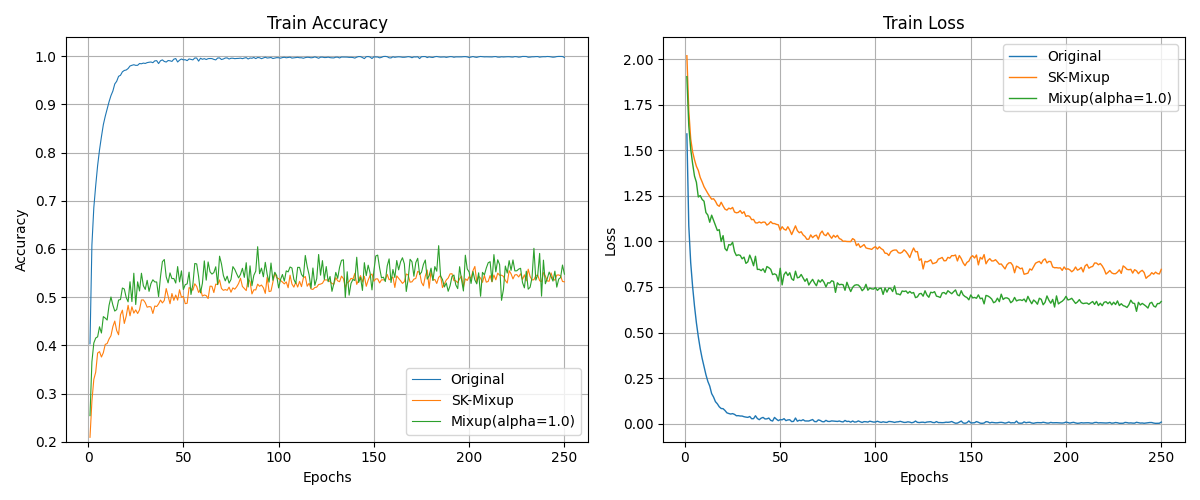
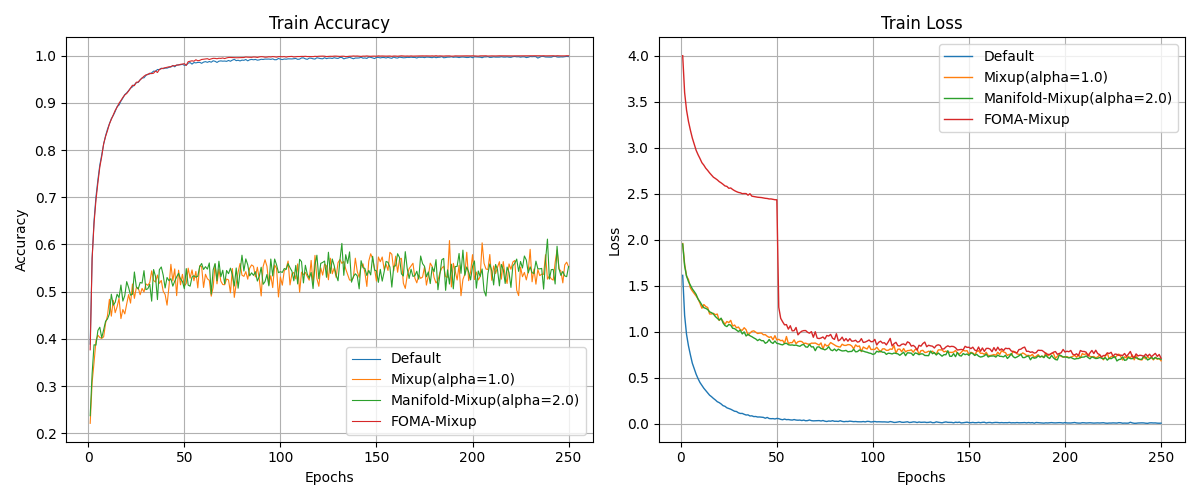
a

diff --git a/test.py b/test.py
@@ -29,34 +29,14 @@ from torchvision.datasets import STL10, CIFAR10, CIFAR100
 from torch.utils.data import DataLoader, random_split, Subset
 from src.methods.foma import foma
 
-class CIFAR100C(Dataset):
-    def __init__(self, corruption_type, severity=1, root='./data/CIFAR-100-C', transform=None):
-        self.data = np.load(f"{root}/{corruption_type}.npy")
-        self.labels = np.load(f"{root}/labels.npy")
-        assert 1 <= severity <= 5
-        self.data = self.data[(severity - 1) * 10000 : severity * 10000]
-        self.labels = self.labels[(severity - 1) * 10000 : severity * 10000]
-        self.transform = transform
-
-    def __len__(self):
-        return len(self.data)
-
-    def __getitem__(self, idx):
-        img = self.data[idx]
-        label = self.labels[idx]
-        img = img.astype(np.uint8)
-        if self.transform:
-            img = self.transform(img)
-        return img, label
-
 augmentations = [
-    # "Default",
-    # "Mixup",
+    "Default",
+    "Mixup",
     # "Manifold-Mixup",
     # "Local-FOMA",
-    "FOMA-Mixup2",
+    # "FOMA-Mixup2",
     # "RegMixup",
-    # "FOMA-scaleup"
+    "FOMA-scaleup"
 ]
 
 corruption_types = [
@@ -65,12 +45,12 @@ corruption_types = [
     'snow', 'frost', 'fog', 'brightness',
     'contrast', 'elastic_transform', 'pixelate', 'jpeg_compression'
 ]
-
+severity = 5
 def main():
     for i in range(1):
         parser = argparse.ArgumentParser()
-        parser.add_argument("--epochs",     type=int, default=400)
-        parser.add_argument("--data_type",  type=str, default="cifar100",  choices=["stl10", "cifar100", "cifar10"])
+        parser.add_argument("--epochs",     type=int, default=250)
+        parser.add_argument("--data_type",  type=str, default="cifar10",  choices=["stl10", "cifar100", "cifar10"])
         parser.add_argument("--model_type", type=str, default="wide_resnet_28_10", choices=["resnet18", "resnet101", "wide_resnet_28_10"])
         args = parser.parse_args() 
 
@@ -79,25 +59,6 @@ def main():
         model_type = args.model_type
         device     = torch.device('cuda' if torch.cuda.is_available() else 'cpu')
 
-        # Number of Classes & Batch Size
-        if data_type == "stl10":
-            num_classes = 10
-            batch_size  = 64
-        elif data_type == "cifar100":
-            num_classes = 100
-            batch_size  = 128
-        elif data_type == "cifar10":
-            num_classes = 10
-            batch_size  = 128
-        
-        default_transform = transforms.Compose([
-            transforms.RandomHorizontalFlip(),
-            transforms.Pad(4),
-            transforms.RandomCrop(32),
-            transforms.ToTensor(),
-            transforms.Normalize(mean=[0.485, 0.456, 0.406], std=[0.229, 0.224, 0.225]),
-        ])
-
         transform = transforms.Compose([
             transforms.ToTensor(), 
             transforms.Normalize(mean=[0.485, 0.456, 0.406], std=[0.229, 0.224, 0.225]),
@@ -105,15 +66,19 @@ def main():
                 
         # Loading Dataset
         if data_type == "stl10":
+            num_classes = 10
+            batch_size  = 64
             test_dataset = STL10(root="./data", split="train", download=True, transform=transform)
         elif data_type == "cifar100":
-            test_dataset = CIFAR100(root="./data", train=False, transform=transform, download=True)
+            num_classes = 100
+            batch_size  = 128
+            test_dataset   = CIFAR100(root="./data", train=False, transform=transform, download=True)
         elif data_type == "cifar10":
-            test_dataset = CIFAR10(root="./data", train=False, transform=transform, download=True)
+            num_classes = 10
+            batch_size  = 128
+            test_dataset   = CIFAR10(root="./data", train=False, transform=transform, download=True)
 
         test_loader  = DataLoader(dataset=test_dataset,  batch_size=batch_size, shuffle=False)
-
-        severity = 5
         
         for augment in augmentations:
             total_acc = 0
@@ -133,12 +98,14 @@ def main():
             model_save_path = f"./logs/{model_type}/{augment}/{data_type}_{epochs}_{i}.pth"
             model.load_state_dict(torch.load(model_save_path, weights_only=True))
             # test_loss, test_acc = test(model, test_loader, criterion, device, augment, aug_ok=False)
-            # print(f"[CIFAR-100]   Test Loss: {test_loss:.3f}, Test Accuracy: {test_acc:.3f}")
+            # print(f"Test Loss: {test_loss:.3f}, Test Accuracy: {test_acc:.3f}")
 
             for corruption in corruption_types:
-                test_dataset_C = CIFAR100C(corruption_type=corruption, severity=severity, transform=transform)
-                test_loader_C = torch.utils.data.DataLoader(test_dataset_C, batch_size=512, shuffle=False)
-
+                if data_type == "cifar100":
+                    test_dataset_C = CIFAR100C(corruption_type=corruption, severity=severity, transform=transform)
+                elif data_type == "cifar10":
+                    test_dataset_C = CIFAR10C(corruption_type=corruption, severity=severity, transform=transform)
+                test_loader_C  = torch.utils.data.DataLoader(test_dataset_C, batch_size=512, shuffle=False)
                 test_loss_C, test_acc_C = test(model, test_loader_C, criterion, device, augment, aug_ok=False)
                 print(f"  [{corruption}] Loss: {test_loss_C:.3f}, Accuracy: {test_acc_C:.2f}%")
                 total_acc += test_acc_C
@@ -147,7 +114,48 @@ def main():
             avg_acc = total_acc / len(corruption_types)
             avg_loss = total_loss / len(corruption_types)
 
-            print(f"\n[CIFAR-100-C Average] Loss: {avg_loss:.4f}, Accuracy: {avg_acc:.4f}%")
+            print(f"\nLoss: {avg_loss:.4f}, Accuracy: {avg_acc:.4f}%")
+
+
+class CIFAR100C(Dataset):
+    def __init__(self, corruption_type, severity=1, root='./data/CIFAR-100-C', transform=None):
+        self.data = np.load(f"{root}/{corruption_type}.npy")
+        self.labels = np.load(f"{root}/labels.npy")
+        assert 1 <= severity <= 5
+        self.data = self.data[(severity - 1) * 10000 : severity * 10000]
+        self.labels = self.labels[(severity - 1) * 10000 : severity * 10000]
+        self.transform = transform
+
+    def __len__(self):
+        return len(self.data)
+
+    def __getitem__(self, idx):
+        img = self.data[idx]
+        label = self.labels[idx]
+        img = img.astype(np.uint8)
+        if self.transform:
+            img = self.transform(img)
+        return img, label
+    
+class CIFAR10C(Dataset):
+    def __init__(self, corruption_type, severity=1, root='./data/CIFAR-10-C', transform=None):
+        self.data = np.load(f"{root}/{corruption_type}.npy")
+        self.labels = np.load(f"{root}/labels.npy")
+        assert 1 <= severity <= 5
+        self.data = self.data[(severity - 1) * 10000 : severity * 10000]
+        self.labels = self.labels[(severity - 1) * 10000 : severity * 10000]
+        self.transform = transform
+
+    def __len__(self):
+        return len(self.data)
+
+    def __getitem__(self, idx):
+        img = self.data[idx]
+        label = self.labels[idx]
+        img = img.astype(np.uint8)
+        if self.transform:
+            img = self.transform(img)
+        return img, label
 
 if __name__ == "__main__":
     main()

diff --git a/result.py b/result.py
@@ -7,8 +7,8 @@ import matplotlib.pyplot as plt
 def main():
     parser = argparse.ArgumentParser()
     parser.add_argument("--iteration",  type=int, default=1)
-    parser.add_argument("--epochs",     type=int, default=400)
-    parser.add_argument("--data_type",  type=str, default="cifar100",          choices=["stl10", "cifar100", "cifar10"])
+    parser.add_argument("--epochs",     type=int, default=250)
+    parser.add_argument("--data_type",  type=str, default="cifar10",          choices=["stl10", "cifar100", "cifar10"])
     parser.add_argument("--model_type", type=str, default="wide_resnet_28_10", choices=["resnet18", "resnet101", "wide_resnet_28_10"])
     args = parser.parse_args()
 
@@ -48,8 +48,8 @@ def main():
         # "FOMA-Manifold-Mixup",
         # "FOMA",
         # "FOMA-scaleup-Mixup",
-        "Local-FOMA",
-        # "FOMA-Mixup",
+        # "Local-FOMA",
+        "FOMA-Mixup",
         # "FOMA-knn-Curriculum",
         # "FOMA_latent_random",
         # "FOMA-scaleup",
@@ -58,7 +58,7 @@ def main():
         # "FOMA_fixed_latent",
         
         # "FOMA_default",
-        "FOMA-Mixup2",
+        # "FOMA-Mixup2",
         
         # "FOMA_knn_input",
         # "FOMA_knn_latent",

diff --git a/ece.py b/ece.py
@@ -16,8 +16,8 @@ from matplotlib.colors import LinearSegmentedColormap
 
 def main():
     parser = argparse.ArgumentParser()
-    parser.add_argument("--epochs", type=int, default=400)
-    parser.add_argument("--data_type", type=str, default="cifar100", choices=["stl10", "cifar100", "cifar10"])
+    parser.add_argument("--epochs", type=int, default=250)
+    parser.add_argument("--data_type", type=str, default="cifar10", choices=["stl10", "cifar100", "cifar10"])
     parser.add_argument("--model_type", type=str, default="wide_resnet_28_10", choices=["resnet18", "resnet101", "wide_resnet_28_10"])
     args = parser.parse_args()
 
@@ -40,7 +40,7 @@ def main():
     
     all_classwise_ece = {}
 
-    for augment in ["FOMA-scaleup"]:
+    for augment in ["Default", ]:
         print(f"\n==> Test with {augment} ...")
         # Model
         if model_type == "resnet18": model = ResNet18().to(device)

diff --git a/visualize_tsne.py b/visualize_tsne.py
@@ -12,8 +12,8 @@ from tqdm import tqdm
 from src.models.wide_resnet import Wide_ResNet
 from torchvision.datasets import STL10, CIFAR10, CIFAR100
 
-epochs     = 400
-data_type  = "cifar100"
+epochs     = 250
+data_type  = "cifar10"
 model_type = "wide_resnet_28_10"
 device     = torch.device('cuda' if torch.cuda.is_available() else 'cpu')
 
@@ -22,10 +22,10 @@ labels_list = []
 
 augmentations = [
     "FOMA-Mixup",
-    # "Default", 
+    "Default", 
     # "Local-FOMA",
     # "Mixup(alpha=0.5)", 
-    # "Mixup",
+    "Mixup",
     # "Mixup(alpha=2.0)",
     # "Mixup(alpha=5.0)",
 ]

diff --git a/visualize_umap.py b/visualize_umap.py
@@ -12,15 +12,16 @@ from torchvision.datasets import STL10, CIFAR10, CIFAR100
 from tqdm import tqdm
 
 # 設定
-epochs     = 400
-data_type  = "cifar100"
+epochs     = 250
+data_type  = "cifar10"
 model_type = "wide_resnet_28_10"
 device     = torch.device('cuda' if torch.cuda.is_available() else 'cpu')
 
 augmentations = [
-    "Local-FOMA",
+    # "Local-FOMA",
     "Mixup",
     "Default",
+    "FOMA-Mixup"
 ]
 
 for augment in augmentations:
